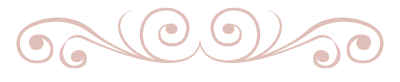
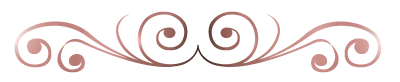
vaniLucas modificaciones

Changed region(s): [[0.03, 0.0976, 0.96, 0.9024], [0.3, 0.1463, 0.33, 0.2683]]

diff --git a/css/vaniLu.css b/css/vaniLu.css
@@ -1,6 +1,6 @@
 .banner {
     height: 35rem;
-    background-image: url("../img/galeriaVaniLucas/1.jpeg");
+    background-image: url("../img/galeriaVaniLucas/portada.webp");
   background-size: cover;
   }
  .btnWhatsapp{
@@ -15,8 +15,14 @@
  .textoBanner{
  text-shadow: 0.2rem 0.2rem 0.3rem #5f452f;
  }
- p{
-    color: #a47f5c;
+ p, h4, .navBar{
+    background: linear-gradient(#d19421,#ac8131);
+    background-clip: inherit;
+    -webkit-background-clip: text;
+    color: transparent;  
+ }
+ .btnMapa, .btnFecha{
+    color: #d19421;
  }
  .banner p{
     color: white;
@@ -24,16 +30,15 @@
  .banner span{
     color: white;
  }
- h5, h3{
-    color: #E0BFB8;
- } h4{
-    color: #a47f5c;
+ h5, h3, span{
+   background: linear-gradient(#e89d96,#864e48);
+   background-clip: inherit;
+   -webkit-background-clip: text;
+   color: transparent;  
  }
- .navBar, span, .btnMapa, .btnFecha{
-    color: #a47f5c;
- }
- .navMenu{
-    background-color: #E0BFB8;
+ .navMenu, .btnAudio{
+    background-color: #b76c64;
+    background: linear-gradient(#e89d96,#864e48);
  }
  .dondeCuando h5{
    text-transform: none;
@@ -43,23 +48,23 @@ font-size: 2rem;
 .btnWhatsapp{
    background-color:white;
    border: solid;
-border-color: #a47f5c;
+border-color: #d1a949;
 border-width: .1rem;
-color: #a47f5c;
+color: #d1a949;
 }
 .btnWhatsapp i{
-   color: #a47f5c;
+   color: #d1a949;
 }
 #menuComida{
-   border-color: #a47f5c;
-   color: #a47f5c;
+   border-color: #d1a949;
+   color: #d1a949;
 }
 .btnDatosBancarios{
    border-radius: .3rem;
 border: solid;
 border-width: .1rem;
-border-color: #a47f5c;
-color: #a47f5c;
+border-color: #d1a949;
+color: #d1a949;
 }
 .separadorInicio {
    background-image: url("../img/galeriaVaniLucas/ornamenta.png");
@@ -72,6 +77,9 @@ color: #a47f5c;
      flex-direction: column;
      justify-content: center;
      align-items: center;
+ }
+ .vestimenta h3{
+    padding-right: 1rem;
  }
   @media screen and (min-width: 768px) {
      .banner{

diff --git a/vaniLucas.html b/vaniLucas.html
@@ -25,7 +25,8 @@
           <li><a href="./vaniLucas.html#confirmacion">Confirmar asistencia</a></li>
         </ul>
       </nav>
-      <button class="btnAudio mute oculto"><i class="fas fa-volume-mute"></i></button>
+      <audio id="cancion" loop="loop" src="./aud/songVaniLu.mp3"></audio>
+      <button class="btnAudio mute"><i class="fas fa-volume-mute"></i></button>
       <!-- fin Barra navegación -->
     </header>
     <main>
@@ -85,7 +86,7 @@
         <!-- Vestimenta -->
         <article class="vestimenta">
             <h3>Dress Code</h3>
-            <img src="./img/galeriaVaniLucas/iconDressCode.png" alt="vestimenta elegante sport">
+            <img src="./img/galeriaVaniLucas/iconDressCode3.png" alt="vestimenta elegante sport">
             <p>Elegante Sport</p>
         </article>
         <!-- Fin vestimenta -->

diff --git a/scripts/sliderVaniLu.js b/scripts/sliderVaniLu.js
@@ -1,11 +1,14 @@
 window.addEventListener("load", function () {
     //////////////////// SLIDER IMAGENES ////////////////
     var imagenes = new Array(
-      ["./img/galeriaVaniLucas/portada.webp"],
+      ["./img/galeriaVaniLucas/1.webp"],
       ["./img/galeriaVaniLucas/2.webp"],
       ["./img/galeriaVaniLucas/3.webp"],
       ["./img/galeriaVaniLucas/4.webp"],
-      ["./img/galeriaVaniLucas/5.webp"]
+      ["./img/galeriaVaniLucas/5.webp"],
+      ["./img/galeriaVaniLucas/6.webp"],
+      ["./img/galeriaVaniLucas/7.webp"],
+      ["./img/galeriaVaniLucas/8.webp"]
     );
     var contador = 0;
   
